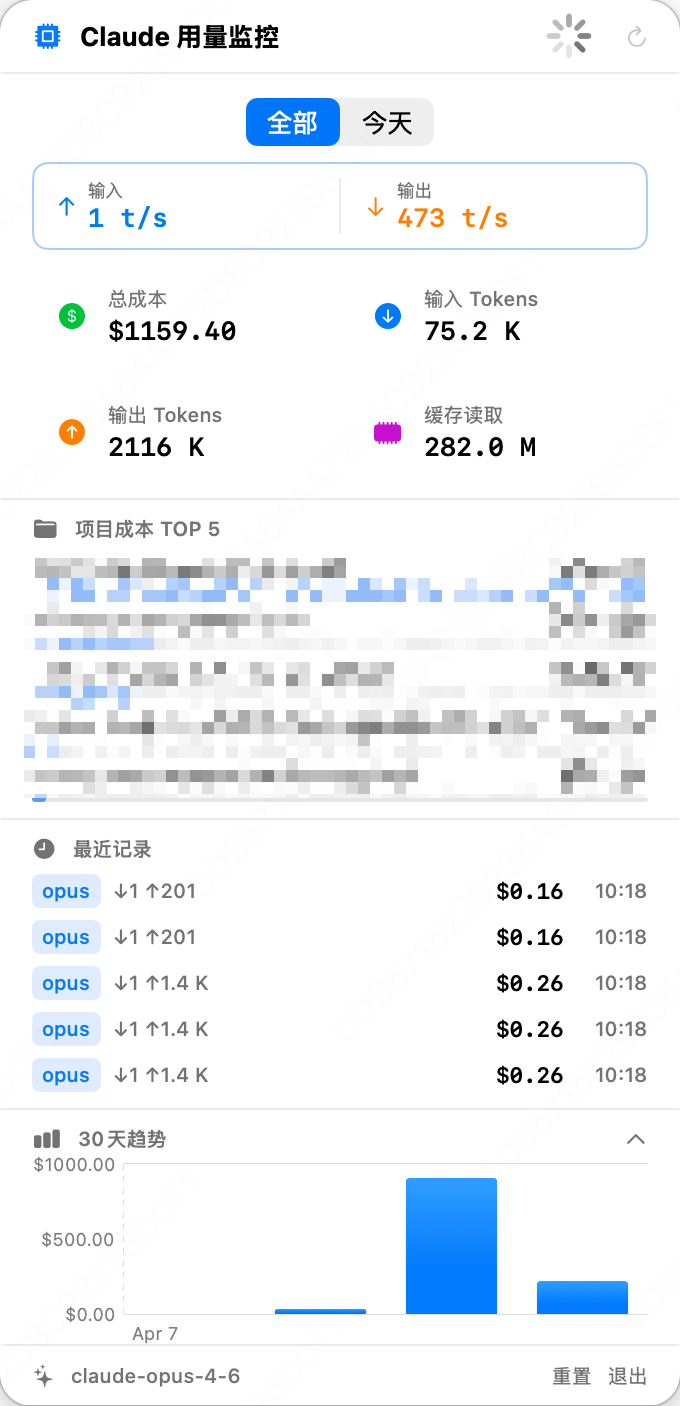
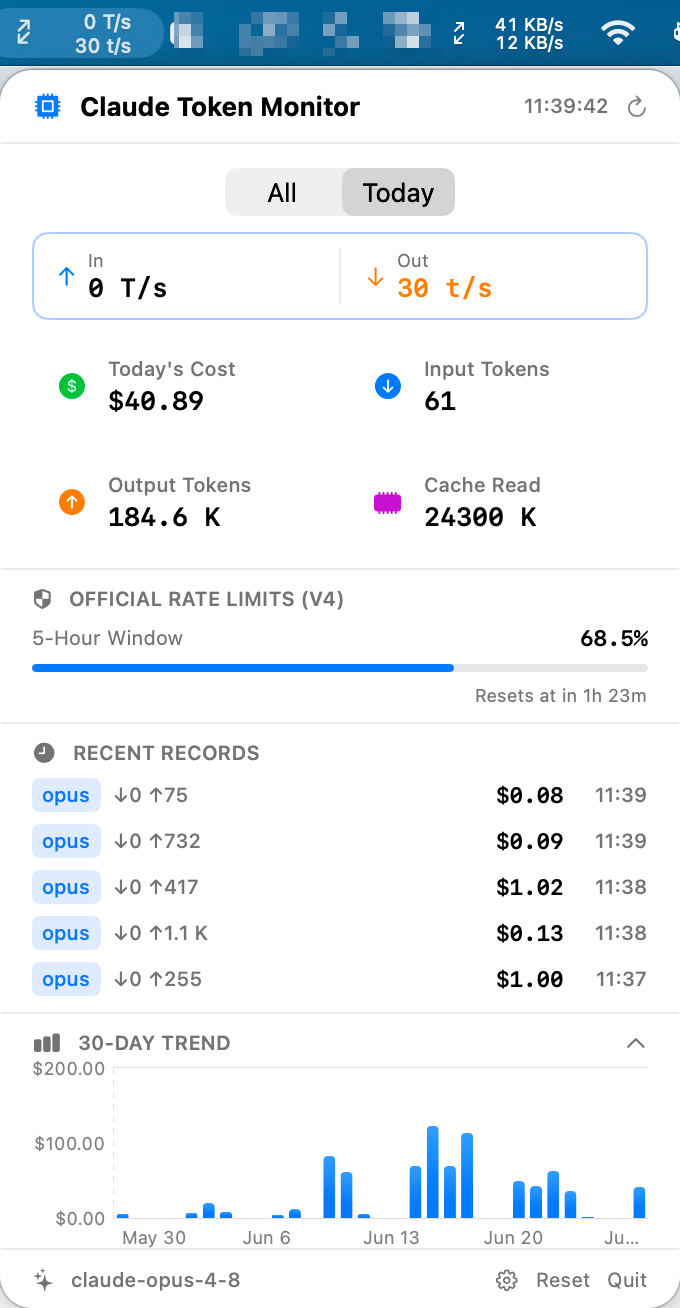
docs: update README for v1.2.0 with new screenshot and v4 features
- Replace screenshot with v1.2.0 UI showing Official Rate Limits (V4) section
- Rewrite features list to include v4 state protocol integration
- Update architecture diagram to include StateProtocolReader
- Fix repo URLs (ClaudeMonitor-macOS → ClaudeTokenMonitorBar-macOS)
- Update pricing table with current Fable 5 / Opus 4.x / Haiku 4.5 rates
- Add v4 State Protocol Integration section explaining optional dependency
- Add FAQ entry about companion vs standalone usage
- Update project structure with all current files

diff --git a/README.md b/README.md
@@ -1,13 +1,14 @@
-# ClaudeMonitor for macOS
+# Claude Token Monitor for macOS
 
 [![macOS](https://img.shields.io/badge/macOS-14.0%2B-blue.svg)](https://www.apple.com/macos/)
 [![Swift](https://img.shields.io/badge/Swift-5.9%2B-orange.svg)](https://swift.org/)
 [![SwiftUI](https://img.shields.io/badge/SwiftUI-5.0-blue.svg)](https://developer.apple.com/xcode/swiftui/)
+[![Version](https://img.shields.io/badge/version-1.2.0-brightgreen.svg)](https://github.com/HAOGRE/ClaudeTokenMonitorBar-macOS/releases/latest)
 [![License: MIT](https://img.shields.io/badge/License-MIT-yellow.svg)](https://opensource.org/licenses/MIT)
 
-A native macOS menu bar app that monitors your **Claude Code** token usage and costs in real-time. Built entirely in Swift with zero external dependencies.
+A native macOS menu bar companion app that monitors your **Claude Code** token usage and costs in real-time. Built entirely in Swift/SwiftUI with zero external dependencies.
 
-> Inspired by [Maciek-roboblog/Claude-Code-Usage-Monitor](https://github.com/Maciek-roboblog/Claude-Code-Usage-Monitor).
+> **Companion app** for [Maciek-roboblog/Claude-Code-Usage-Monitor](https://github.com/Maciek-roboblog/Claude-Code-Usage-Monitor) — consumes the v4 state protocol output and displays it in a native macOS menu bar interface.
 
 <p align="center">
   <img src="https://img.shields.io/badge/Universal-Intel%20%2B%20Apple%20Silicon-brightgreen" alt="Universal Binary" />
@@ -18,20 +19,22 @@ A native macOS menu bar app that monitors your **Claude Code** token usage and c
 ## Screenshot
 
 <p align="center">
-  <img src="assets/screenshot.png" width="340" alt="ClaudeMonitor Screenshot" />
+  <img src="assets/screenshot.png" width="340" alt="Claude Token Monitor Screenshot" />
 </p>
 
 ---
 
 ## Features
 
-- **Live menu bar indicator** -- double-row token rates when active, accumulated cost when idle
-- **Detail panel** -- total cost, input/output tokens, cache reads, top 5 projects, recent records
-- **Auto refresh** -- updates every 5 seconds with smoothed per-second rates
-- **Deduplication** -- skips duplicate entries via `message_id:request_id` hash
-- **Multi-model pricing** -- Opus / Sonnet / Haiku with accurate per-token cost calculation
-- **Zero dependencies** -- pure Swift + SwiftUI, no third-party packages
-- **Universal binary** -- runs natively on both Intel and Apple Silicon Macs
+- **Live menu bar indicator** — double-row token rates (↗ input / ↙ output) when Claude is active; switches to accumulated cost when idle
+- **Official Rate Limits (v4)** — when [claude-code-usage-monitor](https://github.com/Maciek-roboblog/Claude-Code-Usage-Monitor) is running, shows the 5-hour token window with a color-coded progress bar and reset time
+- **Detail panel** — total / today's cost, input / output / cache tokens, top 5 projects by cost, recent 5 records, 30-day trend chart (collapsible)
+- **Auto-refresh** — updates every 5 seconds with smoothed per-second rates
+- **Deduplication** — skips duplicate entries via `message_id:request_id` hash, matching the Python project's logic exactly
+- **Multi-model pricing** — Fable 5, Opus, Sonnet, Haiku with accurate per-token cost calculation
+- **i18n** — English and Chinese UI, defaults to system locale
+- **Zero dependencies** — pure Swift + SwiftUI, no third-party packages
+- **Universal binary** — runs natively on both Intel and Apple Silicon Macs
 
 ---
 
@@ -39,53 +42,67 @@ A native macOS menu bar app that monitors your **Claude Code** token usage and c
 
 ### Option 1: Download DMG (Recommended)
 
-1. Go to [Releases](https://github.com/HAOGRE/ClaudeMonitor-macOS/releases/latest)
-2. Download `ClaudeMonitor.dmg`
-3. Open DMG, drag `ClaudeMonitor.app` to **Applications**
-4. Launch -- the app appears in the menu bar (no Dock icon)
+1. Go to [Releases](https://github.com/HAOGRE/ClaudeTokenMonitorBar-macOS/releases/latest)
+2. Download `ClaudeTokenMonitor-v1.2.0.dmg`
+3. Open DMG, drag `ClaudeTokenMonitor.app` to **Applications**
+4. Launch — the app appears in the menu bar immediately (no Dock icon by default)
 
-> First launch: right-click the app and select "Open" to bypass Gatekeeper.
+> **First launch**: right-click → Open to bypass Gatekeeper, or go to System Settings → Privacy & Security → Open Anyway.
 
 ### Option 2: Build from Source
 
 ```bash
-git clone https://github.com/HAOGRE/ClaudeMonitor-macOS.git
-cd ClaudeMonitor-macOS
+git clone https://github.com/HAOGRE/ClaudeTokenMonitorBar-macOS.git
+cd ClaudeTokenMonitorBar-macOS
 open ClaudeMonitor/ClaudeMonitor.xcodeproj
-# Press Cmd+R to build and run
+# Select the "ClaudeMonitor" scheme → Cmd+R
 ```
 
-**Requirements:** macOS 14.0+, Xcode 15.3+, Claude Code installed (`~/.claude/projects/`)
+**Requirements:** macOS 14.0+, Xcode 16+, Claude Code installed
 
 ---
 
 ## How It Works
 
 ```
-~/.claude/projects/<project>/*.jsonl
+~/.claude/projects/<project>/*.jsonl          (Claude Code writes these)
         |
         v
-  TokenDataReader.swift        -- parse JSONL, extract tokens, calculate cost, deduplicate
+  TokenDataReader.swift     — parse JSONL, extract tokens, calculate cost, deduplicate
         |
         v
-  MonitoringViewModel.swift    -- aggregate totals, compute rates, manage UI state
+  MonitoringViewModel.swift — aggregate totals, compute rates, manage UI state
         |
         v
-  ClaudeMonitorApp.swift       -- render menu bar label (NSImage)
-  StatusBarView.swift           -- render detail panel (SwiftUI)
+  ClaudeMonitorApp.swift    — render menu bar label (NSImage, double-row rates)
+  StatusBarView.swift       — render detail panel (SwiftUI popup)
+
+
+~/.claude-monitor/state/latest.json          (claude-code-usage-monitor writes this)
+        |
+        v
+  StateProtocolReader.swift — decode v4 state protocol, extract 5-hour window data
+        |
+        v
+  StatusBarView.swift       — render Official Rate Limits (V4) section (optional)
 ```
 
-Claude Code writes JSONL session files. The app reads them directly -- no network requests, no daemon, no external servers. All data stays local.
+Claude Code writes JSONL session files locally. The app reads them directly — no network requests, no daemon, no external servers. **All data stays on your machine.**
 
-### Pricing Table
+The v4 rate limit section appears **only when** [claude-code-usage-monitor](https://github.com/Maciek-roboblog/Claude-Code-Usage-Monitor) is also running. Without it, all other features work exactly as before.
 
-| Model  | Input ($/1M) | Output ($/1M) | Cache Create ($/1M) | Cache Read ($/1M) |
-|--------|:---:|:---:|:---:|:---:|
-| Opus   | $15.00 | $75.00 | $18.75 | $1.50 |
-| Sonnet | $3.00  | $15.00 | $3.75  | $0.30 |
-| Haiku  | $0.25  | $1.25  | $0.30  | $0.03 |
+### Pricing Reference
 
-If a JSONL entry includes `cost_usd`, that value is used directly.
+| Model | Input ($/1M) | Output ($/1M) | Cache Write ($/1M) | Cache Read ($/1M) |
+|-------|:---:|:---:|:---:|:---:|
+| Fable 5 / Mythos | $10.00 | $50.00 | $12.50 | $1.00 |
+| Opus 4.x | $5.00 | $25.00 | $6.25 | $0.50 |
+| Sonnet 4.x | $3.00 | $15.00 | $3.75 | $0.30 |
+| Haiku 4.5 | $1.00 | $5.00 | $1.25 | $0.10 |
+
+If a JSONL entry includes `cost_usd`, that value is used directly (most accurate).
+
+Source: [Anthropic Pricing](https://platform.claude.com/docs/en/about-claude/pricing)
 
 ---
 
@@ -96,31 +113,53 @@ ClaudeMonitor/
 ├── ClaudeMonitor.xcodeproj/
 └── ClaudeMonitor/
     ├── ClaudeMonitorApp.swift          # App entry, MenuBarExtra, menu bar label
-    ├── StatusBarView.swift             # Detail panel UI
-    ├── Backend/
-    │   ├── TokenDataReader.swift       # JSONL parser, pricing engine
-    │   └── MonitoringViewModel.swift   # Observable state, auto-refresh
-    └── Assets.xcassets/                # App icon
+    ├── StatusBarView.swift             # Detail panel UI (SwiftUI)
+    ├── SettingsView.swift              # Settings panel
+    ├── AppSettings.swift               # Persistent user preferences
+    ├── Localization.swift              # English + Chinese strings
+    └── Backend/
+        ├── TokenDataReader.swift       # JSONL parser, pricing engine, mtime cache
+        ├── MonitoringViewModel.swift   # Observable state, auto-refresh, rate smoothing
+        ├── StateProtocolReader.swift   # v4 state protocol reader (optional)
+        └── BookmarkManager.swift       # Security-scoped bookmark (App Store sandbox)
 ```
+
+---
+
+## v4 State Protocol Integration
+
+This app is a **consumer** of the [claude-code-usage-monitor](https://github.com/Maciek-roboblog/Claude-Code-Usage-Monitor) v4 state protocol. When the Python tool is running, it writes:
+
+```
+~/.claude-monitor/state/latest.json
+```
+
+The macOS app reads this file each refresh cycle and displays the official 5-hour rate limit data. If the file doesn't exist (Python tool not installed), the v4 section is simply hidden — no errors, no degraded experience.
 
 ---
 
 ## FAQ
 
 **Does this app send data externally?**
-No. It only reads local files. Zero network requests.
+No. It only reads local files (`~/.claude/projects/` and optionally `~/.claude-monitor/`). Zero network requests.
+
+**Do I need to install claude-code-usage-monitor to use this app?**
+No. The core token monitoring (cost, rates, history) works standalone. The **Official Rate Limits (V4)** section is an optional enhancement that requires the Python tool.
 
 **What if `~/.claude/projects` doesn't exist?**
-The app shows a hint message and starts displaying data automatically once Claude Code creates sessions.
+The app shows a hint message and displays data automatically once Claude Code creates sessions.
 
 **How accurate is the cost estimate?**
-Pricing matches the official Anthropic API rates. When `cost_usd` is present in the JSONL data, that exact value is used.
+When `cost_usd` is present in the JSONL entry, that exact value is used. Otherwise, pricing is calculated using the Anthropic official rate table above.
+
+**Why is there both a "Claude Token Monitor" and "AI Token Monitor" version?**
+`ClaudeTokenMonitor` (this repo) is the open-source GitHub distribution. `AI Token Monitor` is the [App Store version](https://apps.apple.com/app/ai-token-monitor/id6744642402) with full sandbox compliance.
 
 ---
 
 ## Credits
 
-Native macOS reimplementation of [Maciek-roboblog/Claude-Code-Usage-Monitor](https://github.com/Maciek-roboblog/Claude-Code-Usage-Monitor). The original Python project provided the foundation for JSONL parsing, token extraction, pricing model, and deduplication logic.
+Native macOS companion app built on top of the architecture established by [Maciek-roboblog/Claude-Code-Usage-Monitor](https://github.com/Maciek-roboblog/Claude-Code-Usage-Monitor). The original Python project defined the v4 state protocol, JSONL parsing patterns, token extraction logic, pricing model, and deduplication approach that this app implements in Swift.
 
 ---
 
